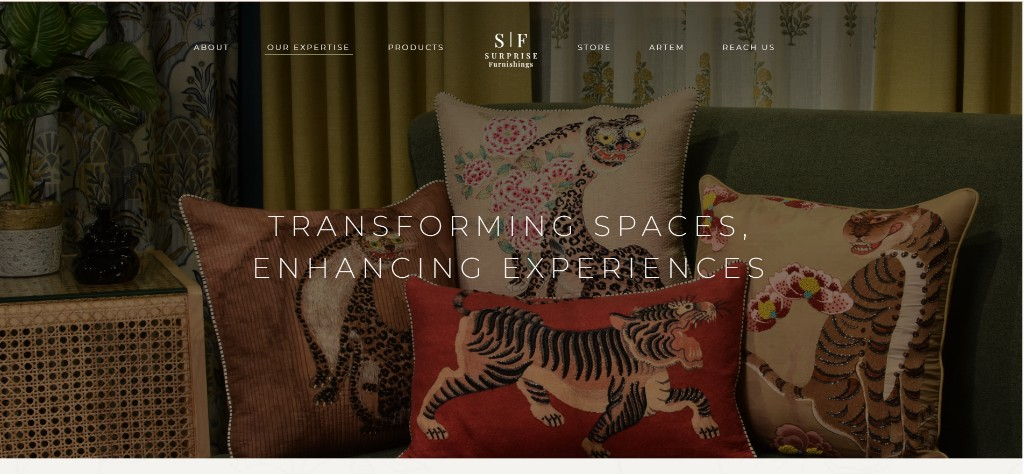
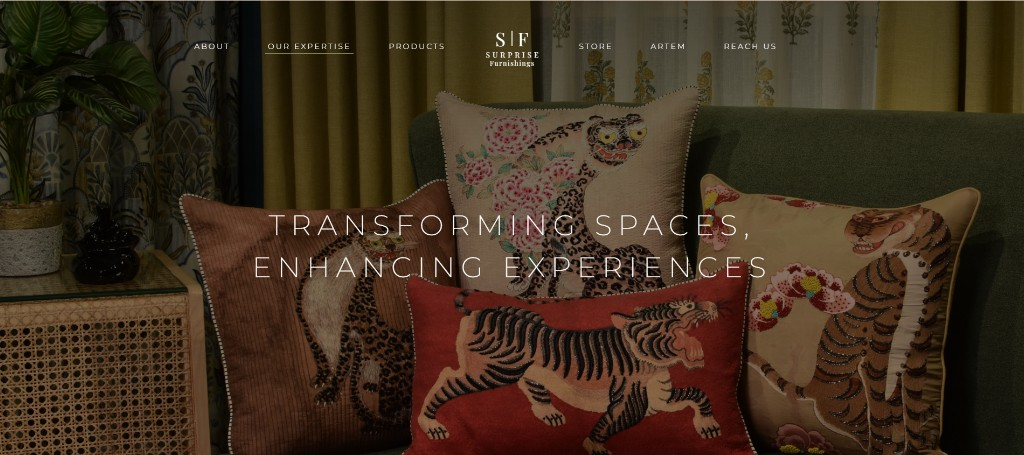
Enhance navigation styles and update hero image: Improved active link styles in navigation for better visibility across various sections, including mobile navigation. Updated hero image for the expertise section to enhance visual quality and adjusted related text properties for improved readability.

diff --git a/css/style.css b/css/style.css
@@ -147,6 +147,20 @@ figure {
   opacity: 0.8;
 }
 
+.nav-left a.is-active,
+.nav-right a.is-active,
+.nav-left a[aria-current="page"],
+.nav-right a[aria-current="page"] {
+  border-bottom: 1px solid rgba(255, 255, 255, 0.95);
+  padding-bottom: 5px;
+  opacity: 1;
+}
+
+.mobile-nav a[aria-current="page"] {
+  border-bottom: 1px solid rgba(255, 255, 255, 0.7);
+  padding-bottom: 4px;
+}
+
 .logo {
   display: flex;
   flex-direction: column;
@@ -1396,9 +1410,11 @@ body.page-about .nav-right a {
 }
 
 body.page-about .nav-left a.is-active,
-body.page-about .nav-left a[aria-current="page"] {
-  border-bottom: 1px solid #9a9a9a;
-  padding-bottom: 4px;
+body.page-about .nav-left a[aria-current="page"],
+body.page-about .nav-right a.is-active,
+body.page-about .nav-right a[aria-current="page"] {
+  border-bottom: 1px solid #3a3a3a;
+  padding-bottom: 5px;
 }
 
 body.page-about .logo {
@@ -1415,6 +1431,11 @@ body.page-about .mobile-nav {
 
 body.page-about .mobile-nav a {
   color: var(--forest);
+}
+
+body.page-about .mobile-nav a[aria-current="page"] {
+  border-bottom: 1px solid var(--forest);
+  padding-bottom: 4px;
 }
 
 /* About title */
@@ -1822,7 +1843,7 @@ body.page-artem .nav-left a.is-active,
 body.page-artem .nav-right a.is-active,
 body.page-artem .nav-left a[aria-current="page"],
 body.page-artem .nav-right a[aria-current="page"] {
-  border-bottom: 1px solid rgba(255, 255, 255, 0.92);
+  border-bottom: 1px solid rgba(255, 255, 255, 0.95);
   padding-bottom: 5px;
 }
 
@@ -2235,12 +2256,12 @@ body.page-products .nav-left a.is-active,
 body.page-products .nav-left a[aria-current="page"],
 body.page-products .nav-right a.is-active,
 body.page-products .nav-right a[aria-current="page"] {
-  border-bottom: 1px solid #8a8f6a;
+  border-bottom: 1px solid rgba(255, 255, 255, 0.95);
   padding-bottom: 5px;
 }
 
 body.page-products .mobile-nav a[aria-current="page"] {
-  border-bottom: 1px solid #8a8f6a;
+  border-bottom: 1px solid rgba(255, 255, 255, 0.7);
   padding-bottom: 4px;
 }
 
@@ -2770,12 +2791,12 @@ body.page-reach-us .nav-left a.is-active,
 body.page-reach-us .nav-right a.is-active,
 body.page-reach-us .nav-left a[aria-current="page"],
 body.page-reach-us .nav-right a[aria-current="page"] {
-  border-bottom: 1px solid #8a8f6a;
+  border-bottom: 1px solid rgba(255, 255, 255, 0.95);
   padding-bottom: 5px;
 }
 
 body.page-reach-us .mobile-nav a[aria-current="page"] {
-  border-bottom: 1px solid #8a8f6a;
+  border-bottom: 1px solid rgba(255, 255, 255, 0.7);
   padding-bottom: 4px;
 }
 
@@ -3296,12 +3317,12 @@ body.page-expertise .nav-left a.is-active,
 body.page-expertise .nav-right a.is-active,
 body.page-expertise .nav-left a[aria-current="page"],
 body.page-expertise .nav-right a[aria-current="page"] {
-  border-bottom: 1px solid #8a8f6a;
+  border-bottom: 1px solid rgba(255, 255, 255, 0.95);
   padding-bottom: 5px;
 }
 
 body.page-expertise .mobile-nav a[aria-current="page"] {
-  border-bottom: 1px solid #8a8f6a;
+  border-bottom: 1px solid rgba(255, 255, 255, 0.7);
   padding-bottom: 4px;
 }
 
@@ -3327,9 +3348,9 @@ body.page-expertise .footer-links a[aria-current="page"] {
 .expertise-hero-media {
   position: absolute;
   inset: 0;
-  background-image: url("../images/expertise-hero.jpg");
+  background-image: url("../images/d80e5dc4bf94bb45c511c06ab168300c7a43b562.jpg");
   background-size: cover;
-  background-position: center center;
+  background-position: center 40%;
   background-repeat: no-repeat;
 }
 
@@ -3339,8 +3360,8 @@ body.page-expertise .footer-links a[aria-current="page"] {
   background:
     linear-gradient(
       to bottom,
-      rgba(0, 0, 0, 0.68) 0%,
-      rgba(0, 0, 0, 0.52) 35%,
+      rgba(0, 0, 0, 0.62) 0%,
+      rgba(0, 0, 0, 0.48) 40%,
       rgba(0, 0, 0, 0.42) 100%
     );
 }
@@ -3349,16 +3370,18 @@ body.page-expertise .footer-links a[aria-current="page"] {
   position: relative;
   z-index: 2;
   margin: 0;
-  padding: 130px 28px 80px;
+  padding: 0 28px;
   max-width: 980px;
   text-align: center;
   font-family: var(--font-sans);
-  font-weight: 200;
-  font-size: clamp(24px, 3.2vw, 42px);
-  letter-spacing: 0.22em;
-  line-height: 1.5;
+  font-weight: 300;
+  font-size: clamp(22px, 3vw, 36px);
+  letter-spacing: 0.26em;
+  text-indent: 0.26em;
+  line-height: 1.55;
   text-transform: uppercase;
-  color: #fff;
+  color: #ffffff;
+  text-shadow: 0 2px 18px rgba(0, 0, 0, 0.4);
 }
 
 .expertise-hero-title span {
@@ -3578,8 +3601,9 @@ body.page-expertise .footer-links a[aria-current="page"] {
 
   .expertise-hero-title {
     font-size: clamp(22px, 3.4vw, 34px);
-    letter-spacing: 0.18em;
-    padding: 120px 24px 64px;
+    letter-spacing: 0.2em;
+    text-indent: 0.2em;
+    padding: 0 24px;
   }
 
   .expertise-pillars {
@@ -3621,9 +3645,10 @@ body.page-expertise .footer-links a[aria-current="page"] {
 
   .expertise-hero-title {
     font-size: clamp(20px, 4.8vw, 26px);
-    letter-spacing: 0.14em;
-    line-height: 1.45;
-    padding: 110px 20px 56px;
+    letter-spacing: 0.16em;
+    text-indent: 0.16em;
+    line-height: 1.5;
+    padding: 0 20px;
   }
 
   .expertise-pillars {
@@ -3672,8 +3697,9 @@ body.page-expertise .footer-links a[aria-current="page"] {
 
   .expertise-hero-title {
     font-size: 18px;
-    letter-spacing: 0.12em;
-    padding: 100px 16px 48px;
+    letter-spacing: 0.14em;
+    text-indent: 0.14em;
+    padding: 0 16px;
   }
 
   .expertise-pillars {

diff --git a/css/store.css b/css/store.css
@@ -108,7 +108,14 @@ ul {
 
 .nav a.is-active,
 .nav a[aria-current="page"] {
+  border-bottom: 1px solid rgba(255, 255, 255, 0.95);
+  padding-bottom: 5px;
   opacity: 1;
+}
+
+.mobile-nav a[aria-current="page"] {
+  border-bottom: 1px solid rgba(255, 255, 255, 0.7);
+  padding-bottom: 4px;
 }
 
 .logo {
@@ -216,7 +223,9 @@ ul {
 }
 
 .mobile-nav a[aria-current="page"] {
-  opacity: 0.7;
+  border-bottom: 1px solid rgba(255, 255, 255, 0.7);
+  padding-bottom: 4px;
+  opacity: 1;
 }
 
 body.nav-open {
